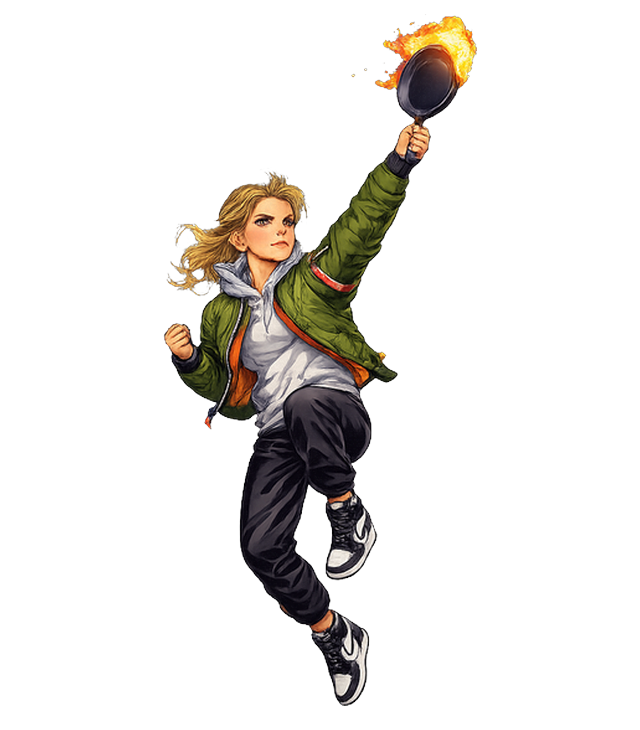
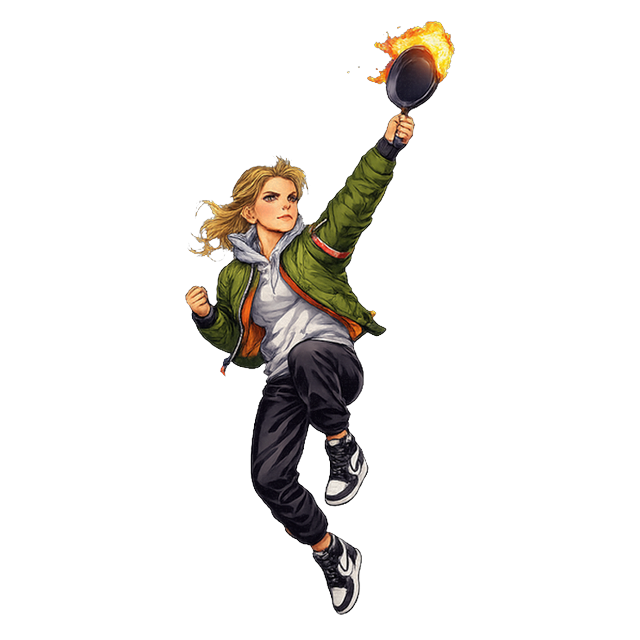
fix(v2.56): prevent half-body _front.png portrait fallback in combat and normalize all remaining pose heights and baselines across all 27 fighters

Changed region(s): [[0.25, 0.0, 0.75, 0.9688]]

diff --git a/js/states/Combat.js b/js/states/Combat.js
@@ -1,20 +1,20 @@
-import Fighter from '../entities/Fighter.js?v=2.55';
-import Projectile from '../entities/Projectile.js?v=2.55';
-import Hitbox from '../entities/Hitbox.js?v=2.55';
-import StageObjectManager from '../entities/StageObjects.js?v=2.55';
-import AIController from '../ai/AIController.js?v=2.55';
-import CombatHUD from '../ui/CombatHUD.js?v=2.55';
+import Fighter from '../entities/Fighter.js?v=2.56';
+import Projectile from '../entities/Projectile.js?v=2.56';
+import Hitbox from '../entities/Hitbox.js?v=2.56';
+import StageObjectManager from '../entities/StageObjects.js?v=2.56';
+import AIController from '../ai/AIController.js?v=2.56';
+import CombatHUD from '../ui/CombatHUD.js?v=2.56';
 import {
     preloadFighterSprites,
     preloadStageAssets,
     playAnnouncer,
     playFighterSound,
     playCombatSound
-} from '../core/AssetPreloader.js?v=2.55';
-import { STAGES, ROSTER, unlockFighter } from '../data.js?v=2.55';
-import { STORY_REFLEXION, STORY_EPILOGUE, STORY_OUTRO, STORY_BIRTHDAY } from '../story_data.js?v=2.55';
-import { STORY_DIALOGUES } from '../story_dialogues.js?v=2.55';
-import CinematicFinisher, { getFinisherMove } from '../fx/CinematicFinisher.js?v=2.55';
+} from '../core/AssetPreloader.js?v=2.56';
+import { STAGES, ROSTER, unlockFighter } from '../data.js?v=2.56';
+import { STORY_REFLEXION, STORY_EPILOGUE, STORY_OUTRO, STORY_BIRTHDAY } from '../story_data.js?v=2.56';
+import { STORY_DIALOGUES } from '../story_dialogues.js?v=2.56';
+import CinematicFinisher, { getFinisherMove } from '../fx/CinematicFinisher.js?v=2.56';
 
 export default class CombatState {
     constructor(game) {
@@ -2076,6 +2076,7 @@ export default class CombatState {
 
         preloadFighterSprites(this.game.assetManager, opponent);
         preloadStageAssets(this.game.assetManager, stageId);
+        this.game.assetManager.loadAll();
 
         const healedHP = this.survivalMode
             ? Math.min(this.p1.maxHP, Math.max(1, this.p1.hp) + Math.round(this.p1.maxHP * 0.30))

diff --git a/js/states/OnlineLobby.js b/js/states/OnlineLobby.js
@@ -4,9 +4,9 @@
  *  1) 1 VS 1 DUELL (Head-to-head PvP!)
  *  2) 2P KOOP STORY (Fight side-by-side through the Story & unlock secret fighters!)
  */
-import { ROSTER, SPECIALS, ALL_FIGHTERS, STAGES, isFighterUnlocked } from '../data.js?v=2.55';
-import { STORY_PROLOGUE } from '../story_data.js?v=2.55';
-import { preloadFighterSprites, preloadStageAssets } from '../core/AssetPreloader.js?v=2.55';
+import { ROSTER, SPECIALS, ALL_FIGHTERS, STAGES, isFighterUnlocked } from '../data.js?v=2.56';
+import { STORY_PROLOGUE } from '../story_data.js?v=2.56';
+import { preloadFighterSprites, preloadStageAssets } from '../core/AssetPreloader.js?v=2.56';
 
 export default class OnlineLobbyState {
     constructor(game) {
@@ -33,7 +33,7 @@ export default class OnlineLobbyState {
         for (const f of ALL_FIGHTERS) {
             const key = `${f.id}_front.png`;
             if (!this.game.assetManager.images[key]) {
-                this.game.assetManager.queueImage(key, `assets/CHARACTERS/${f.folder}/_front.png?v=2.55`);
+                this.game.assetManager.queueImage(key, `assets/CHARACTERS/${f.folder}/_front.png?v=2.56`);
             }
         }
         this.game.assetManager.loadAll();
@@ -295,7 +295,7 @@ export default class OnlineLobbyState {
 
         const key = `${nextChar.id}_front.png`;
         if (!this.game.assetManager.images[key]) {
-            this.game.assetManager.queueImage(key, `assets/CHARACTERS/${nextChar.folder}/_front.png?v=2.55`);
+            this.game.assetManager.queueImage(key, `assets/CHARACTERS/${nextChar.folder}/_front.png?v=2.56`);
             this.game.assetManager.loadAll();
         }
 

diff --git a/js/states/CharacterSelect.js b/js/states/CharacterSelect.js
@@ -1,6 +1,6 @@
-import { ROSTER, SPECIALS, ALL_FIGHTERS, STAGES, isFighterUnlocked, getFighterStyle } from '../data.js?v=2.55';
-import { STORY_PROLOGUE } from '../story_data.js?v=2.55';
-import { preloadFighterSprites, preloadStageAssets, playFighterSound, playAnnouncer } from '../core/AssetPreloader.js?v=2.55';
+import { ROSTER, SPECIALS, ALL_FIGHTERS, STAGES, isFighterUnlocked, getFighterStyle } from '../data.js?v=2.56';
+import { STORY_PROLOGUE } from '../story_data.js?v=2.56';
+import { preloadFighterSprites, preloadStageAssets, playFighterSound, playAnnouncer } from '../core/AssetPreloader.js?v=2.56';
 
 export default class CharacterSelectState {
     constructor(game) {
@@ -56,7 +56,7 @@ export default class CharacterSelectState {
         for (const char of this.allFighters) {
             const key = `${char.id}_front.png`;
             if (!this.game.assetManager.images[key]) {
-                this.game.assetManager.queueImage(key, `assets/CHARACTERS/${char.folder}/_front.png?v=2.55`);
+                this.game.assetManager.queueImage(key, `assets/CHARACTERS/${char.folder}/_front.png?v=2.56`);
                 needsLoad = true;
             }
         }
@@ -338,6 +338,7 @@ export default class CharacterSelectState {
             ? this.selectedStageKeys[this.stageIndex]
             : (p2Char.stageId || 'Japan');
         preloadStageAssets(this.game.assetManager, chosenStageKey);
+        this.game.assetManager.loadAll();
 
         // Stop the select menu music instantly so the fighter's select voice rings out crystal-clear.
         this.game.audioManager.stopBGM();

diff --git a/js/states/Boot.js b/js/states/Boot.js
@@ -26,14 +26,18 @@ export default class BootState {
         this.game.assetManager.queueImage('menuBg', 'assets/UI/UX_Cosmic_Shimmer.png');
 
         // Premium Intro Logo
-        this.game.assetManager.queueImage('caesar_logo', 'assets/UI/caesar_logo.png?v=2.55');
+        this.game.assetManager.queueImage('caesar_logo', 'assets/UI/caesar_logo.png?v=2.56');
 
-        // Dynamically load ALL fighter portraits for the Character Select grid
-        const { ALL_FIGHTERS, STAGES } = await import('../data.js?v=2.55');
+        // Dynamically load ALL fighter portraits AND standing combat stance (_right.png)
+        const { ALL_FIGHTERS, STAGES } = await import('../data.js?v=2.56');
         for (const char of ALL_FIGHTERS) {
             this.game.assetManager.queueImage(
                 `${char.id}_front.png`,
-                `assets/CHARACTERS/${char.folder}/_front.png?v=2.55`
+                `assets/CHARACTERS/${char.folder}/_front.png?v=2.56`
+            );
+            this.game.assetManager.queueImage(
+                `${char.id}_right.png`,
+                `assets/CHARACTERS/${char.folder}/_right.png?v=2.56`
             );
         }
 
@@ -41,7 +45,7 @@ export default class BootState {
         for (const [stageId, stage] of Object.entries(STAGES)) {
             this.game.assetManager.queueImage(
                 `Stage_${stageId}`,
-                `assets/STAGES/${stage.file}?v=2.55`
+                `assets/STAGES/${stage.file}?v=2.56`
             );
         }
 

diff --git a/js/states/Menu.js b/js/states/Menu.js
@@ -1,7 +1,7 @@
-import { ROSTER, ALL_FIGHTERS, STAGES, UNLOCK_CHAIN_GUIDE, isFighterUnlocked, getFighterStyle } from '../data.js?v=2.55';
-import { STORY_PROLOGUE } from '../story_data.js?v=2.55';
-import { preloadFighterSprites, preloadStageAssets } from '../core/AssetPreloader.js?v=2.55';
-import { getFinisherMove } from '../fx/CinematicFinisher.js?v=2.55';
+import { ROSTER, ALL_FIGHTERS, STAGES, UNLOCK_CHAIN_GUIDE, isFighterUnlocked, getFighterStyle } from '../data.js?v=2.56';
+import { STORY_PROLOGUE } from '../story_data.js?v=2.56';
+import { preloadFighterSprites, preloadStageAssets } from '../core/AssetPreloader.js?v=2.56';
+import { getFinisherMove } from '../fx/CinematicFinisher.js?v=2.56';
 
 export default class MenuState {
     constructor(game) {
@@ -177,7 +177,7 @@ export default class MenuState {
             for (const f of ALL_FIGHTERS) {
                 const key = `${f.id}_front.png`;
                 if (!this.game.assetManager.images[key]) {
-                    this.game.assetManager.queueImage(key, `assets/CHARACTERS/${f.folder}/_front.png?v=2.55`);
+                    this.game.assetManager.queueImage(key, `assets/CHARACTERS/${f.folder}/_front.png?v=2.56`);
                 }
             }
             this.game.assetManager.loadAll();

diff --git a/js/entities/Fighter.js b/js/entities/Fighter.js
@@ -1,5 +1,5 @@
-import Hitbox from './Hitbox.js?v=2.55';
-import { getFighterStyle } from '../data.js?v=2.55';
+import Hitbox from './Hitbox.js?v=2.56';
+import { getFighterStyle } from '../data.js?v=2.56';
 
 export default class Fighter {
     constructor(game, data, x, y, facing) {
@@ -1271,12 +1271,6 @@ export default class Fighter {
     _getSprite(suffix) {
         const imgs = this.game.assetManager.images;
         const id = this.data.id;
-        const pfx = this.data.spritePrefix;
-
-        if (pfx && (suffix === '_dive_kick.png' || suffix === '_low_kick.png' || suffix === '_hook_punch.png')) {
-            const customKey = `${id}_${pfx}${suffix.replace('.png', '')}`;
-            if (imgs[customKey]) return imgs[customKey];
-        }
 
         const exactKey = `${id}${suffix}`;
         if (imgs[exactKey]) return imgs[exactKey];
@@ -1616,7 +1610,7 @@ export default class Fighter {
                 spriteImage = this._getSprite('_kick.png') || this._getSprite('_punch.png');
             }
             if (!spriteImage) {
-                spriteImage = this._getSprite('_right.png') || this._getSprite('_front.png');
+                spriteImage = this._getSprite('_right.png');
             }
 
             if (!spriteImage) {

diff --git a/js/main.js b/js/main.js
@@ -1,12 +1,12 @@
-import Game from './core/Game.js?v=2.55';
-import BootState from './states/Boot.js?v=2.55';
-import CaesarSplash from './states/CaesarSplash.js?v=2.55';
-import MenuState from './states/Menu.js?v=2.55';
-import CharacterSelectState from './states/CharacterSelect.js?v=2.55';
-import CombatState from './states/Combat.js?v=2.55';
-import StorySequence from './states/StorySequence.js?v=2.55';
-import VersusIntro from './states/VersusIntro.js?v=2.55';
-import OnlineLobbyState from './states/OnlineLobby.js?v=2.55';
+import Game from './core/Game.js?v=2.56';
+import BootState from './states/Boot.js?v=2.56';
+import CaesarSplash from './states/CaesarSplash.js?v=2.56';
+import MenuState from './states/Menu.js?v=2.56';
+import CharacterSelectState from './states/CharacterSelect.js?v=2.56';
+import CombatState from './states/Combat.js?v=2.56';
+import StorySequence from './states/StorySequence.js?v=2.56';
+import VersusIntro from './states/VersusIntro.js?v=2.56';
+import OnlineLobbyState from './states/OnlineLobby.js?v=2.56';
 
 // V2.0 Entry Point
 window.onload = () => {

diff --git a/js/core/Game.js b/js/core/Game.js
@@ -1,9 +1,9 @@
-import StateManager from './StateManager.js?v=2.55';
-import InputManager from './InputManager.js?v=2.55';
-import AssetManager from './AssetManager.js?v=2.55';
-import AudioManager from './AudioManager.js?v=2.55';
-import TouchPad from './TouchPad.js?v=2.55';
-import NetworkManager from './NetworkManager.js?v=2.55';
+import StateManager from './StateManager.js?v=2.56';
+import InputManager from './InputManager.js?v=2.56';
+import AssetManager from './AssetManager.js?v=2.56';
+import AudioManager from './AudioManager.js?v=2.56';
+import TouchPad from './TouchPad.js?v=2.56';
+import NetworkManager from './NetworkManager.js?v=2.56';
 
 export default class Game {
     constructor(canvas) {

diff --git a/js/core/AssetManager.js b/js/core/AssetManager.js
@@ -78,8 +78,8 @@ export default class AssetManager {
                             resolve();
                         }
                     };
-                    // Avoid malformed double "?v=2.55?v=..." URLs and allow session caching
-                    img.src = item.path.includes('?') ? item.path : `${item.path}?v=2.55`;
+                    // Avoid malformed double "?v=2.56?v=..." URLs and allow session caching
+                    img.src = item.path.includes('?') ? item.path : `${item.path}?v=2.56`;
                 } else if (item.type === 'audio') {
                     this.audioBuffer[item.key] = true;
                     let settled = false;

diff --git a/js/ui/CombatHUD.js b/js/ui/CombatHUD.js
@@ -1,7 +1,7 @@
-import { ROSTER, getFighterStyle } from '../data.js?v=2.55';
-import { playAnnouncer } from '../core/AssetPreloader.js?v=2.55';
-import { STORY_DIALOGUES } from '../story_dialogues.js?v=2.55';
-import { getFinisherMove } from '../fx/CinematicFinisher.js?v=2.55';
+import { ROSTER, getFighterStyle } from '../data.js?v=2.56';
+import { playAnnouncer } from '../core/AssetPreloader.js?v=2.56';
+import { STORY_DIALOGUES } from '../story_dialogues.js?v=2.56';
+import { getFinisherMove } from '../fx/CinematicFinisher.js?v=2.56';
 
 /**
  * CombatHUD — Renders health/special bars, timers, and match overlays

diff --git a/js/core/NetworkManager.js b/js/core/NetworkManager.js
@@ -5,8 +5,8 @@
  *  - CO-OP STORY MODE (Host = P1, Guest = Ally fighting side-by-side through Story Mode!)
  *  - 1v1 DUEL MODE (Host = P1, Guest = P2 fighting head-to-head!)
  */
-import { ROSTER, ALL_FIGHTERS, unlockFighter } from '../data.js?v=2.55';
-import { preloadFighterSprites, preloadStageAssets } from './AssetPreloader.js?v=2.55';
+import { ROSTER, ALL_FIGHTERS, unlockFighter } from '../data.js?v=2.56';
+import { preloadFighterSprites, preloadStageAssets } from './AssetPreloader.js?v=2.56';
 
 const PEER_PREFIX = 'lotl-arcade-v234-room-';
 const MQTT_TOPIC_PREFIX = 'lotl-arcade-v234/room/';

diff --git a/js/core/AssetPreloader.js b/js/core/AssetPreloader.js
@@ -1,4 +1,4 @@
-import { STAGES } from '../data.js?v=2.55';
+import { STAGES } from '../data.js?v=2.56';
 
 const AUDIO_MAP = {
     'Keano': 'keano',
@@ -47,7 +47,7 @@ export function preloadFighterSprites(assetManager, char) {
         '_windup_kick', '_mid_kick', '_low_kick', '_dive_kick', '_spin_kick', '_axe_kick', '_hurricane_kick'
     ];
 
-    const ver = '?v=2.55';
+    const ver = '?v=2.56';
     for (const suf of [...coreSuffixes, ...extraSuffixes]) {
         const key = `${char.id}${suf}.png`;
         if (!assetManager.images[key]) {
